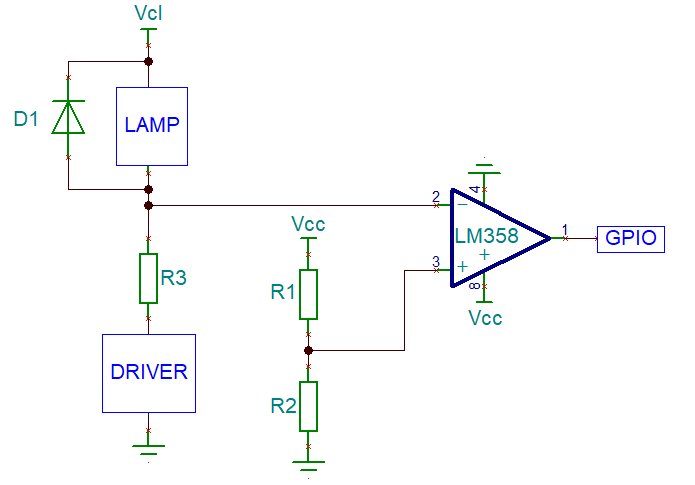
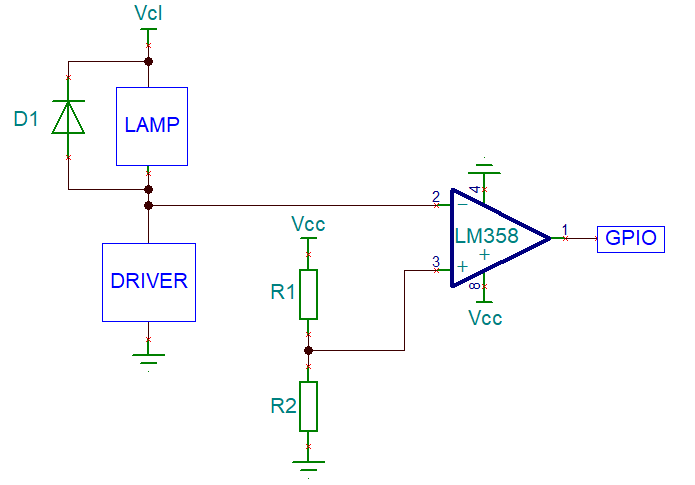
Lamp fail

Changed region(s): [[0.1511, 0.5567, 0.2719, 0.8041], [0.1813, 0.4948, 0.2417, 0.5258], [0.2115, 0.8969, 0.2417, 0.9278]]

diff --git a/project/report/texts/hw_specification.tex b/project/report/texts/hw_specification.tex
@@ -674,8 +674,8 @@ With this in mind, one can define the components used in this circuit as present
 		\\\hline
 		Resistor \(R_{2}\) & 4,7 k$\Omega$; +-5 \%
 		\\\hline
-		Resistor \(R_{3}\) & zz $\Omega$; +-5 \%
-		\\\hline
+%		Resistor \(R_{3}\) & zz $\Omega$; +-5 \%
+%		\\\hline
 	\end{tabular}
 	\caption{Lamp Failure Detector components.}
 	\label{table:lampFailure_components}
@@ -719,7 +719,7 @@ It is important to know how the lamp failure detector works, and how it will beh
 			\hline
 			\textbf{Test Case} & \textbf{Expected Output} & \textbf{Real Output}
 			\\\hline\hline
-			Apply +5 V DC to the detector & Digital output Low (0V) & - 
+			Apply +5 V DC to the detector & Digital output Low (0 V) & - 
 			\\\hline
 			
 			Apply 0 V to the detector & Digital output High (3,3 V) & - 
